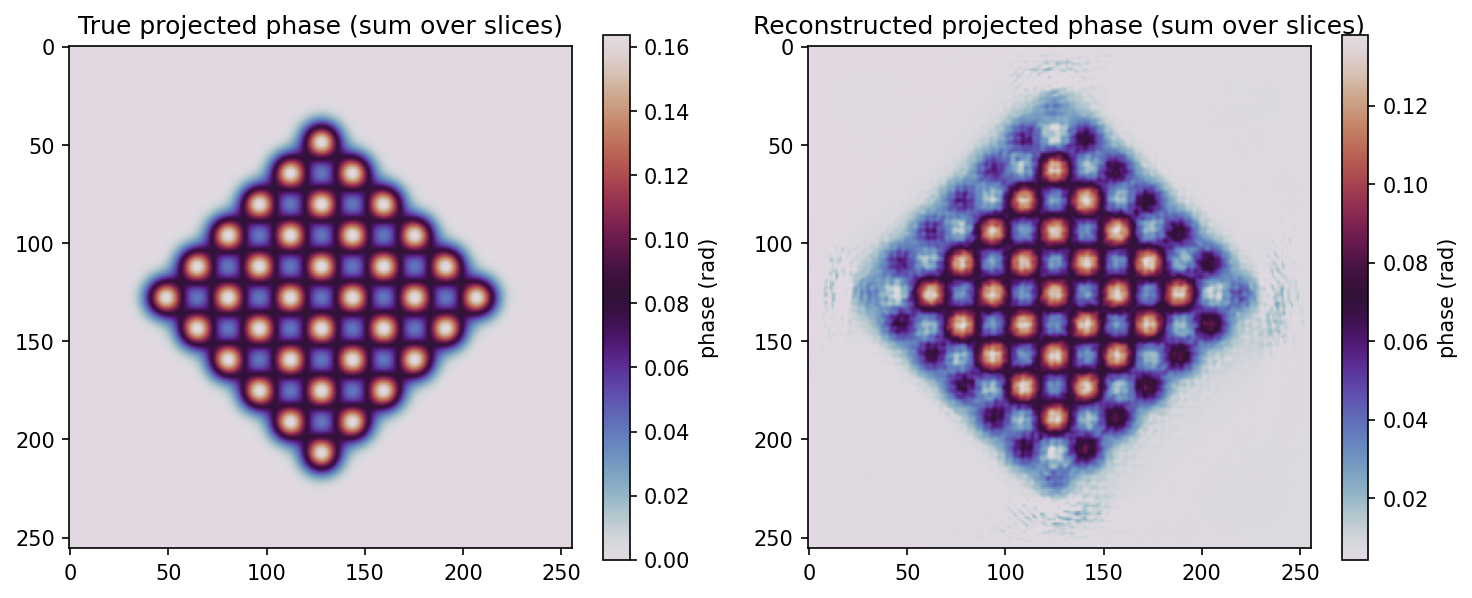
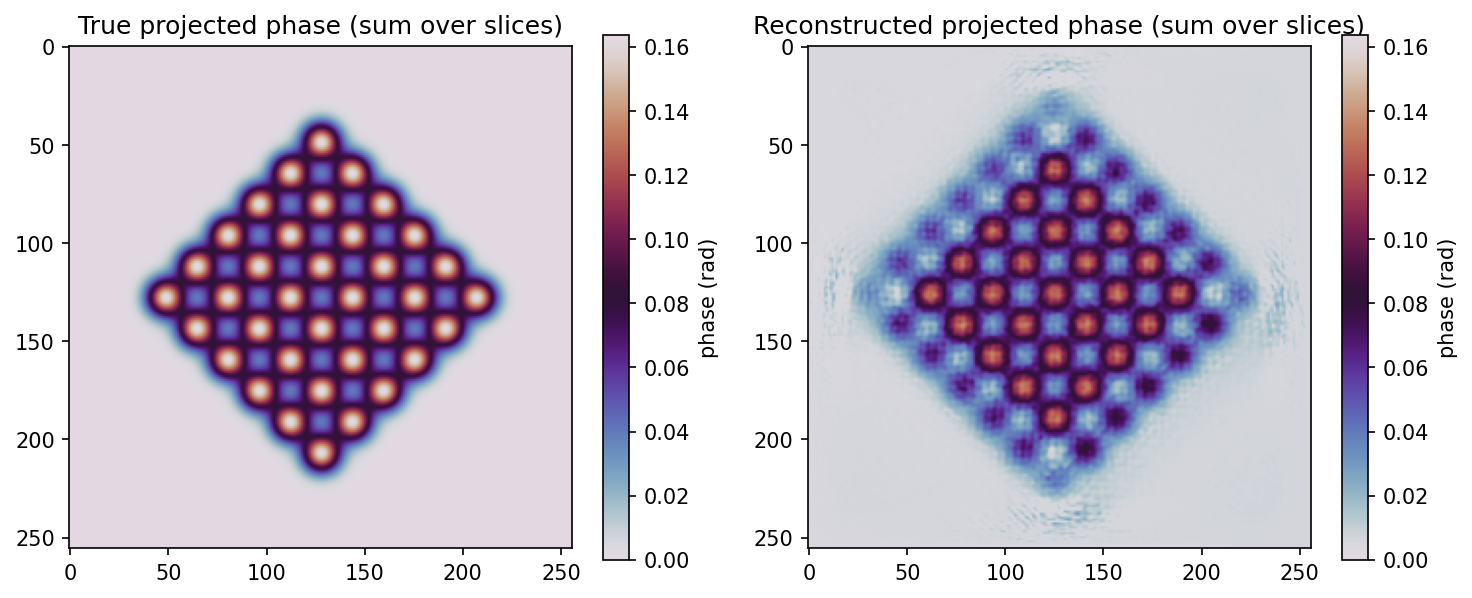
Lock slice-comparison colormap to truth range — fix sign-alternation artefact
Twilight is a cyclic colormap, so auto-scaling per-panel made the recon
look sign-alternated when its phase range extended slightly past truth's:
positive values past vmax and negative values past vmin both map to the
dark end of the colormap, producing fake "inverted atoms".

Lock both panels' vmin/vmax to the TRUE phase range in
13_recon_projected_phase.png and 16_slice_comparison.png. Atoms now
display with consistent brightness and sign across both images.

https://claude.ai/code/session_01Ryk8yeo17Rwh7g5p1TgKVU

diff --git a/tutorial.py b/tutorial.py
@@ -532,11 +532,15 @@ save("12_residuals.png")
 
 recon_proj = np.angle(O_recon_aligned).sum(axis=0)
 true_proj = np.angle(O_true).sum(axis=0)
+# Lock both panels to the TRUE phase range — twilight is cyclic, so a
+# recon that slightly overshoots true's range displays as alternating
+# sign even when the atoms are at correct positions with correct phase.
+_vmin, _vmax = float(true_proj.min()), float(true_proj.max())
 fig, axes = plt.subplots(1, 2, figsize=(10, 4))
-im0 = axes[0].imshow(true_proj, cmap='twilight')
+im0 = axes[0].imshow(true_proj, cmap='twilight', vmin=_vmin, vmax=_vmax)
 axes[0].set_title("True projected phase (sum over slices)")
 plt.colorbar(im0, ax=axes[0], label='phase (rad)')
-im1 = axes[1].imshow(recon_proj, cmap='twilight')
+im1 = axes[1].imshow(recon_proj, cmap='twilight', vmin=_vmin, vmax=_vmax)
 axes[1].set_title("Reconstructed projected phase (sum over slices)")
 plt.colorbar(im1, ax=axes[1], label='phase (rad)')
 plt.tight_layout()
@@ -580,10 +584,15 @@ fig, axes = plt.subplots(2, len(slices_to_compare), figsize=(5 * len(slices_to_c
 axes = np.atleast_2d(axes)
 if axes.shape[0] == 1:  # single-slice: subplots returns (2,) not (2,1)
     axes = axes.reshape(2, 1)
+# Lock colormap limits to the TRUE phase range for each slice so both
+# panels show the same signal level. Auto-scaling per-panel makes the
+# recon look alternating-sign when it just has a slightly wider range
+# than truth (twilight is cyclic: symmetric low/high both look dark).
 for col, s in enumerate(slices_to_compare):
-    axes[0, col].imshow(np.angle(O_true[s]), cmap='twilight')
+    vmin, vmax = float(np.angle(O_true[s]).min()), float(np.angle(O_true[s]).max())
+    axes[0, col].imshow(np.angle(O_true[s]), cmap='twilight', vmin=vmin, vmax=vmax)
     axes[0, col].set_title(f'True — slice {s}')
-    axes[1, col].imshow(np.angle(O_recon_aligned[s]), cmap='twilight')
+    axes[1, col].imshow(np.angle(O_recon_aligned[s]), cmap='twilight', vmin=vmin, vmax=vmax)
     axes[1, col].set_title(f'Reconstructed — slice {s}')
 
 axes[0, 0].set_ylabel('True phase')
